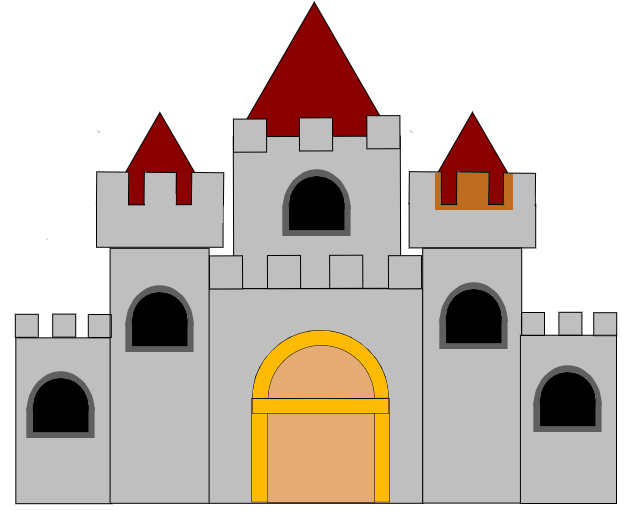
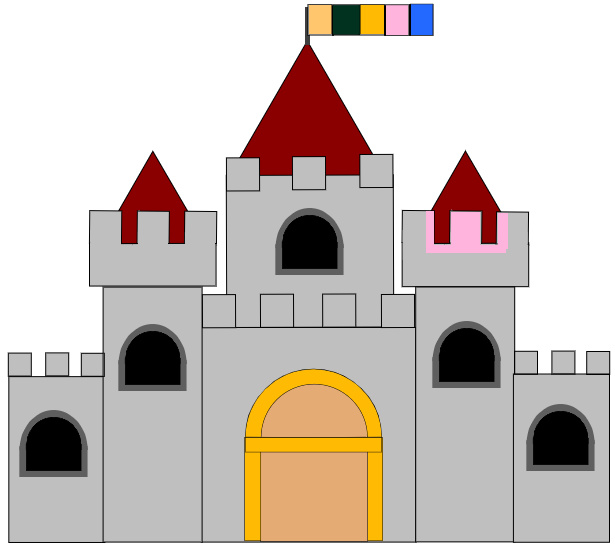
Castle: Add images of cart and path. Position appropriately

Changed region(s): [[0.0, 0.0, 1.0, 0.998]]

diff --git a/src/Levels/2/Castle.jsx b/src/Levels/2/Castle.jsx
@@ -1,16 +1,26 @@
 import AnswerAndHintBox from "../../components/AnswerAndHintBox";
 import "./Castle.css";
 import castle from './CastleImage.png'
+import path from './PathImage.png'
+import cabbageCart from './CabbageCartImage.png'
 
 function Castle() {
   return (
     <div className="level-castle-div">
       <AnswerAndHintBox />
       <div className="castle-container">
-      <img src={castle}></img>
+        <img src={castle}></img>
+      </div>
+      <div className="path-container">
+        <img style={{width: "100%"}} src={path}></img>
+      </div>
+      <div className="cabbage-container">
+        <img src={cabbageCart}></img>
       </div>
     </div>
   );
 }
+
+// Put the colour of the letters in order on a flag or something
 
 export default Castle;

diff --git a/src/Levels/2/Castle.css b/src/Levels/2/Castle.css
@@ -3,3 +3,22 @@
     width: 100%;
     background-color: green;
 }
+
+.castle-container {
+    position: absolute;
+    top: 5%;
+    right: 5%;
+}
+
+.path-container {
+    width: 50%;
+    position: absolute;
+    top: 63.5%;
+    right: 15%;
+}
+
+.cabbage-container {
+    position: absolute;
+    top: 50%;
+    left: 30%;
+}
